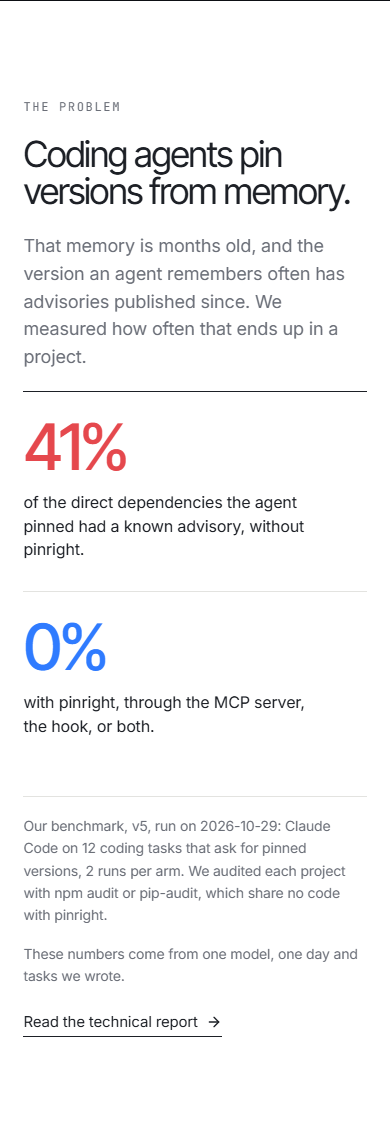
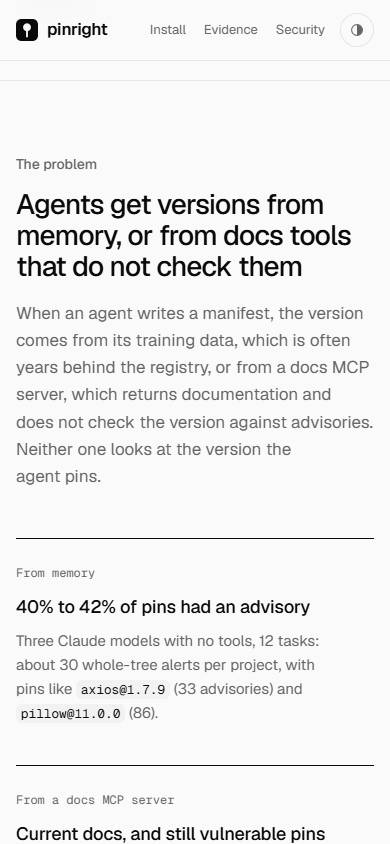
paper kit: landing screenshots of pinright.dev with the v7 numbers

diff --git a/paper/kit/copy/alt-text.md b/paper/kit/copy/alt-text.md
@@ -69,8 +69,12 @@ fingerprint.
 
 ## Landing screenshots (visuals/landing)
 
-**desktop-en / desktop-es.** The pinright page on hiperai.com, desktop width, English and Spanish:
-hero, the benchmark numbers, the three pieces, install, privacy and the open-source section. Taken
-before the v6 update; the numbers shown are the v5 ones.
+**desktop-en / desktop-en-dark.** The pinright.dev home page at desktop width, light and dark
+theme: hero with the install commands, the problem (pins from memory or from docs tools that do not
+check them), the install story with the hook's answer, the comparison with a docs-only server, the
+benchmark v7 numbers, what the agent sees, how it works, privacy and the footer.
 
-**mobile-en-N / mobile-es-N.** The same page at phone width, one section per image.
+**mobile-en / mobile-en-dark.** The same page at phone width, full length.
+
+**mobile-en-1 to mobile-en-6.** Phone width, one screen each: hero, the problem, the install story,
+the comparison, the benchmark numbers, the footer.

diff --git a/paper/kit/BRIEF.md b/paper/kit/BRIEF.md
@@ -71,7 +71,7 @@ current versions do most of the work.
 | `visuals/cli/pinright-doctor` | Install and setup step |
 | `visuals/cli/pinright-check-lodash` | CLI for people, same verdict the agent gets |
 | `visuals/cli/pinright-audit-sarif`, `pinright-sarif-summary` | CI and code-scanning story |
-| `visuals/landing/*` | Current landing (desktop and mobile, EN and ES), for reference; its numbers are the older v5 ones, see `claims.md` section 2 |
+| `visuals/landing/*` | The pinright.dev home page (desktop light and dark, phone full length and one screen per section), with the v7 numbers |
 
 Every figure comes as SVG and 2x PNG, light (`<id>`) and dark (`<id>-dark`), with a caption in
 `figures/<id>.caption.md` and alt text in `copy/alt-text.md`. The charts are generated from the CSVs
